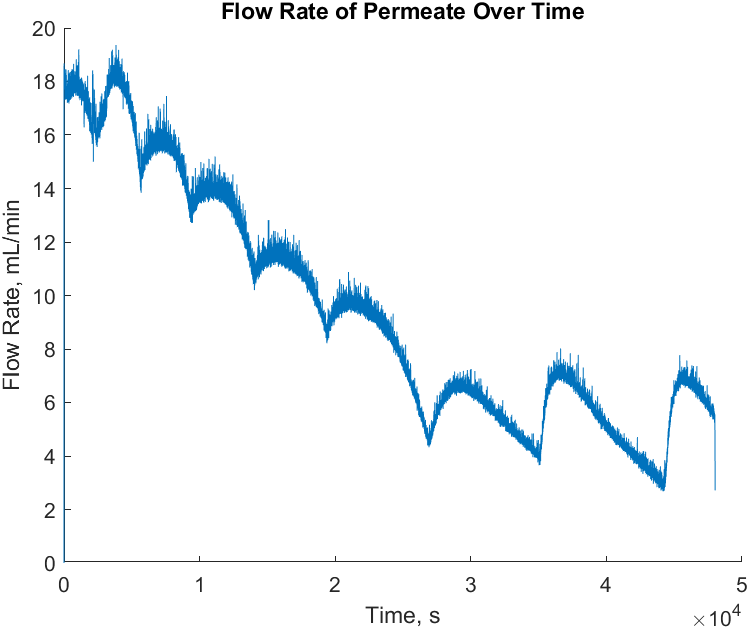
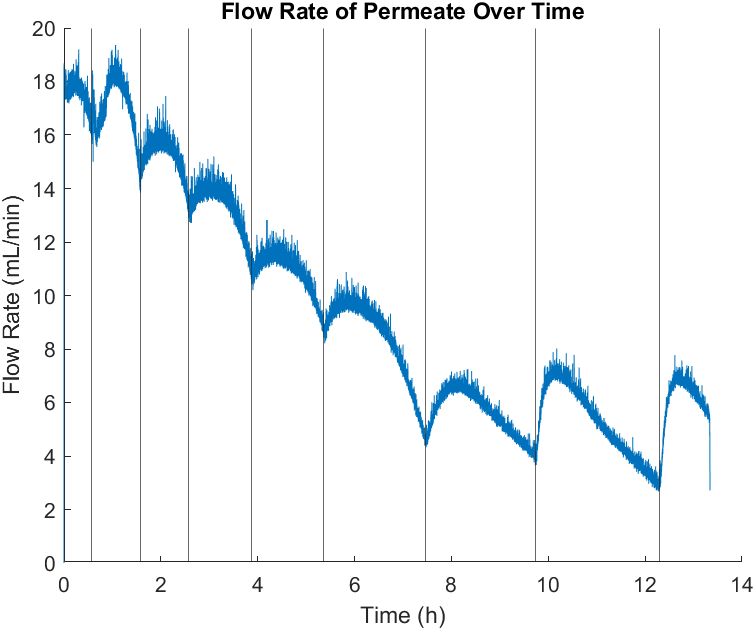
Add august 4 data graphs

diff --git a/Arduino + Daq/data/CaSO4_analysis_function.m b/Arduino + Daq/data/CaSO4_analysis_function.m
@@ -1,3 +1,24 @@
+function [flux_lmh,sal_mM_av,RR_i_cond,perm_LMHB,pi_bar] = CaSO4_analysis_function(time_list,conductivity_list,distance_list,flowrate_list,permeate_flowrate_list,permeate_volume_list,tank_state_list,sal_mM_i,P_psi,permeate_cond)
+% This function takes in data lists and setting conditions of each test with
+% NaCl and CaSO4. It generates graphs including flux over time, permeability
+% over time, etc. 
+
+% Inputs:
+    % time,conductivity, distance, two flowrates, permeate volume, and tank
+    % state lists
+    % sal_mM_i: mM, initial salinityfor salinity-based estimation of recovery
+    % P_psi: applied pressure in psi
+    % permeate_cond: conductivity of permeate in mS/cm 
+% Output:
+    % flux_lmh: L/m2.h, flux calculated with permeate flowrate
+    % sal_mM_av: mM, salinity of CaSO4 (only) calculated with conductivity
+    % RR_i_cond: instantaneous recovery rate calculated with conductivity
+    % pi_bar: bar, osmotic pressure calculated with linear relation between
+    %         osmotic pressure and concentration.
+    % perm_LMHB: L/m2.h.bar, permeability calculated with flux and osmotic pressure 
+
+
+% Input data
 D = [length(time_list),length(conductivity_list),length(distance_list),length(flowrate_list),length(permeate_flowrate_list),length(permeate_volume_list)];
 data_length = min(D,[],"all");
 
@@ -14,10 +35,6 @@ tank_state = tank_state_list(1:data_length);                      % tank states,
 empty_time = time(r);
         
 %% calculates and plots salinity ,flux, and permeability
-% parameters to enter each time
-sal_mM_i = 4.6;       % mM, initial salinityfor salinity-based estimation of recovery
-P_psi = 550;          % applied pressure in psi
-permeate_cond = 100/1000;  % conductivity of permeate in mS/cm 
 
 % preset parameters
 t_min_av = 0.5;         % minutes to average over
@@ -27,20 +44,25 @@ t_interval = 1;         % NOTE: data time interval is approximate
 A_m = 0.0238;           % m^2, membrane area(SW measurement feed side, 2019 module)
 
 close all
-sal_mM = conductivity / condu_at_1mM;  % mM, salinity calculated by linear relation to conductivity
+sal_mM = conductivity / condu_at_1mM;  % mM, salinity of CaSO4 calculated by linear relation to conductivity
 n_av = t_min_av * 60/t_interval;        % number of points to make flux avg across
 
 sal_mM_av = movmean(sal_mM, n_av);
 flowrate_av = (mass(n_av+1:end) - mass(1:end-n_av)) ./ (time(n_av+1:end) - time(1:end-n_av));
 
+permeate_salinity = permeate_cond / condu_at_1mM; % mM, calculate permeate salinity
+
 flux_lmh = flowrate_av / 1000*3600 / A_m; % L/m2.h
-RR_i_cond = 1 - sal_mM_i ./ sal_mM_av; % conductivity-based instantaneous RR assuming no salt permeation!
+RR_i_cond = 1 - sal_mM_i / sal_mM_av; % conductivity-based instantaneous RR assuming no salt permeation!
 P_bar = P_psi * 0.0689;
-pi_psi = pi_at_1mM * sal_mM_av; % est. osmotic pressure in psi
-pi_bar = pi_psi * 0.01;    
+pi_kpa = pi_at_1mM * sal_mM_av; % est. osmotic pressure in kpa
+pi_bar = pi_kpa * 0.01;    
 perm_LMHB = flux_lmh ./ (P_bar-pi_bar(1:end-n_av)); %LMH/bar, permeability
 
 %% Generate graphs
+
+% Vertical lines at moments that the tank turns empty
+
 % plots conductivity over time
 figure
 hold on
@@ -133,4 +155,6 @@ xline(empty_time./3600)
 title("Osmotic Pressure Over Time")
 xlabel('Time (h)')
 ylabel('Osmotic pressure (bar)')
+
+end
 
